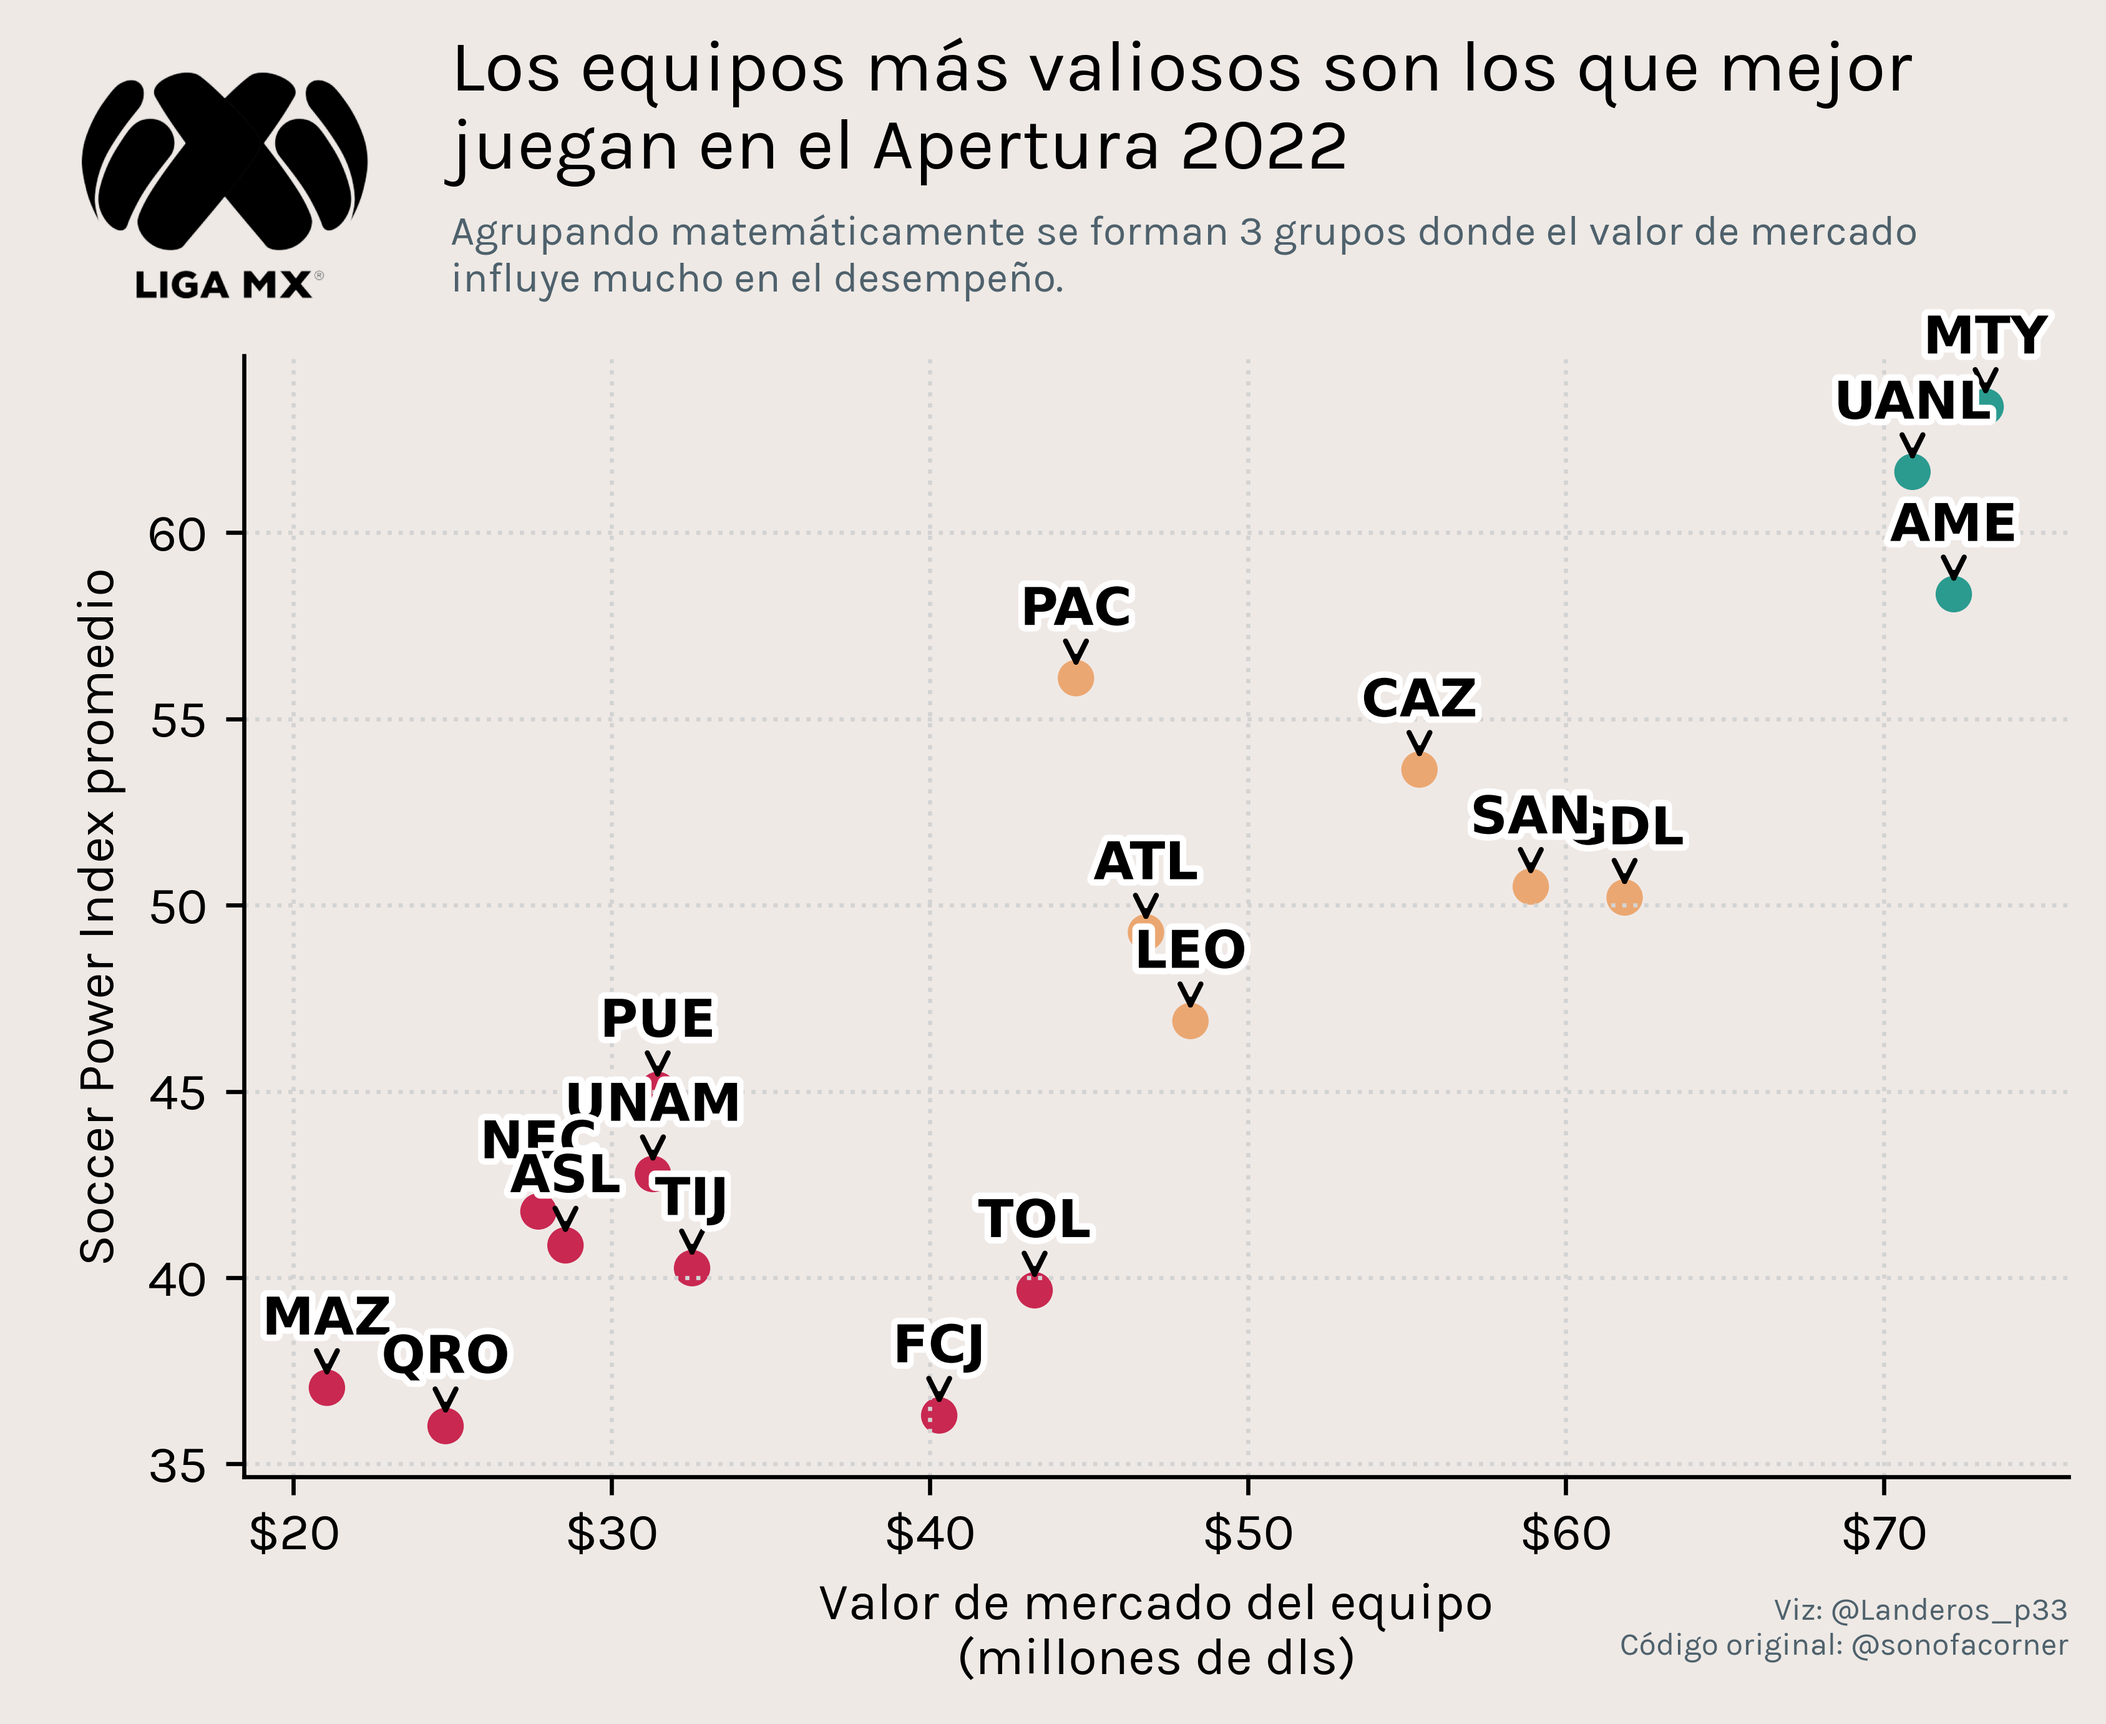
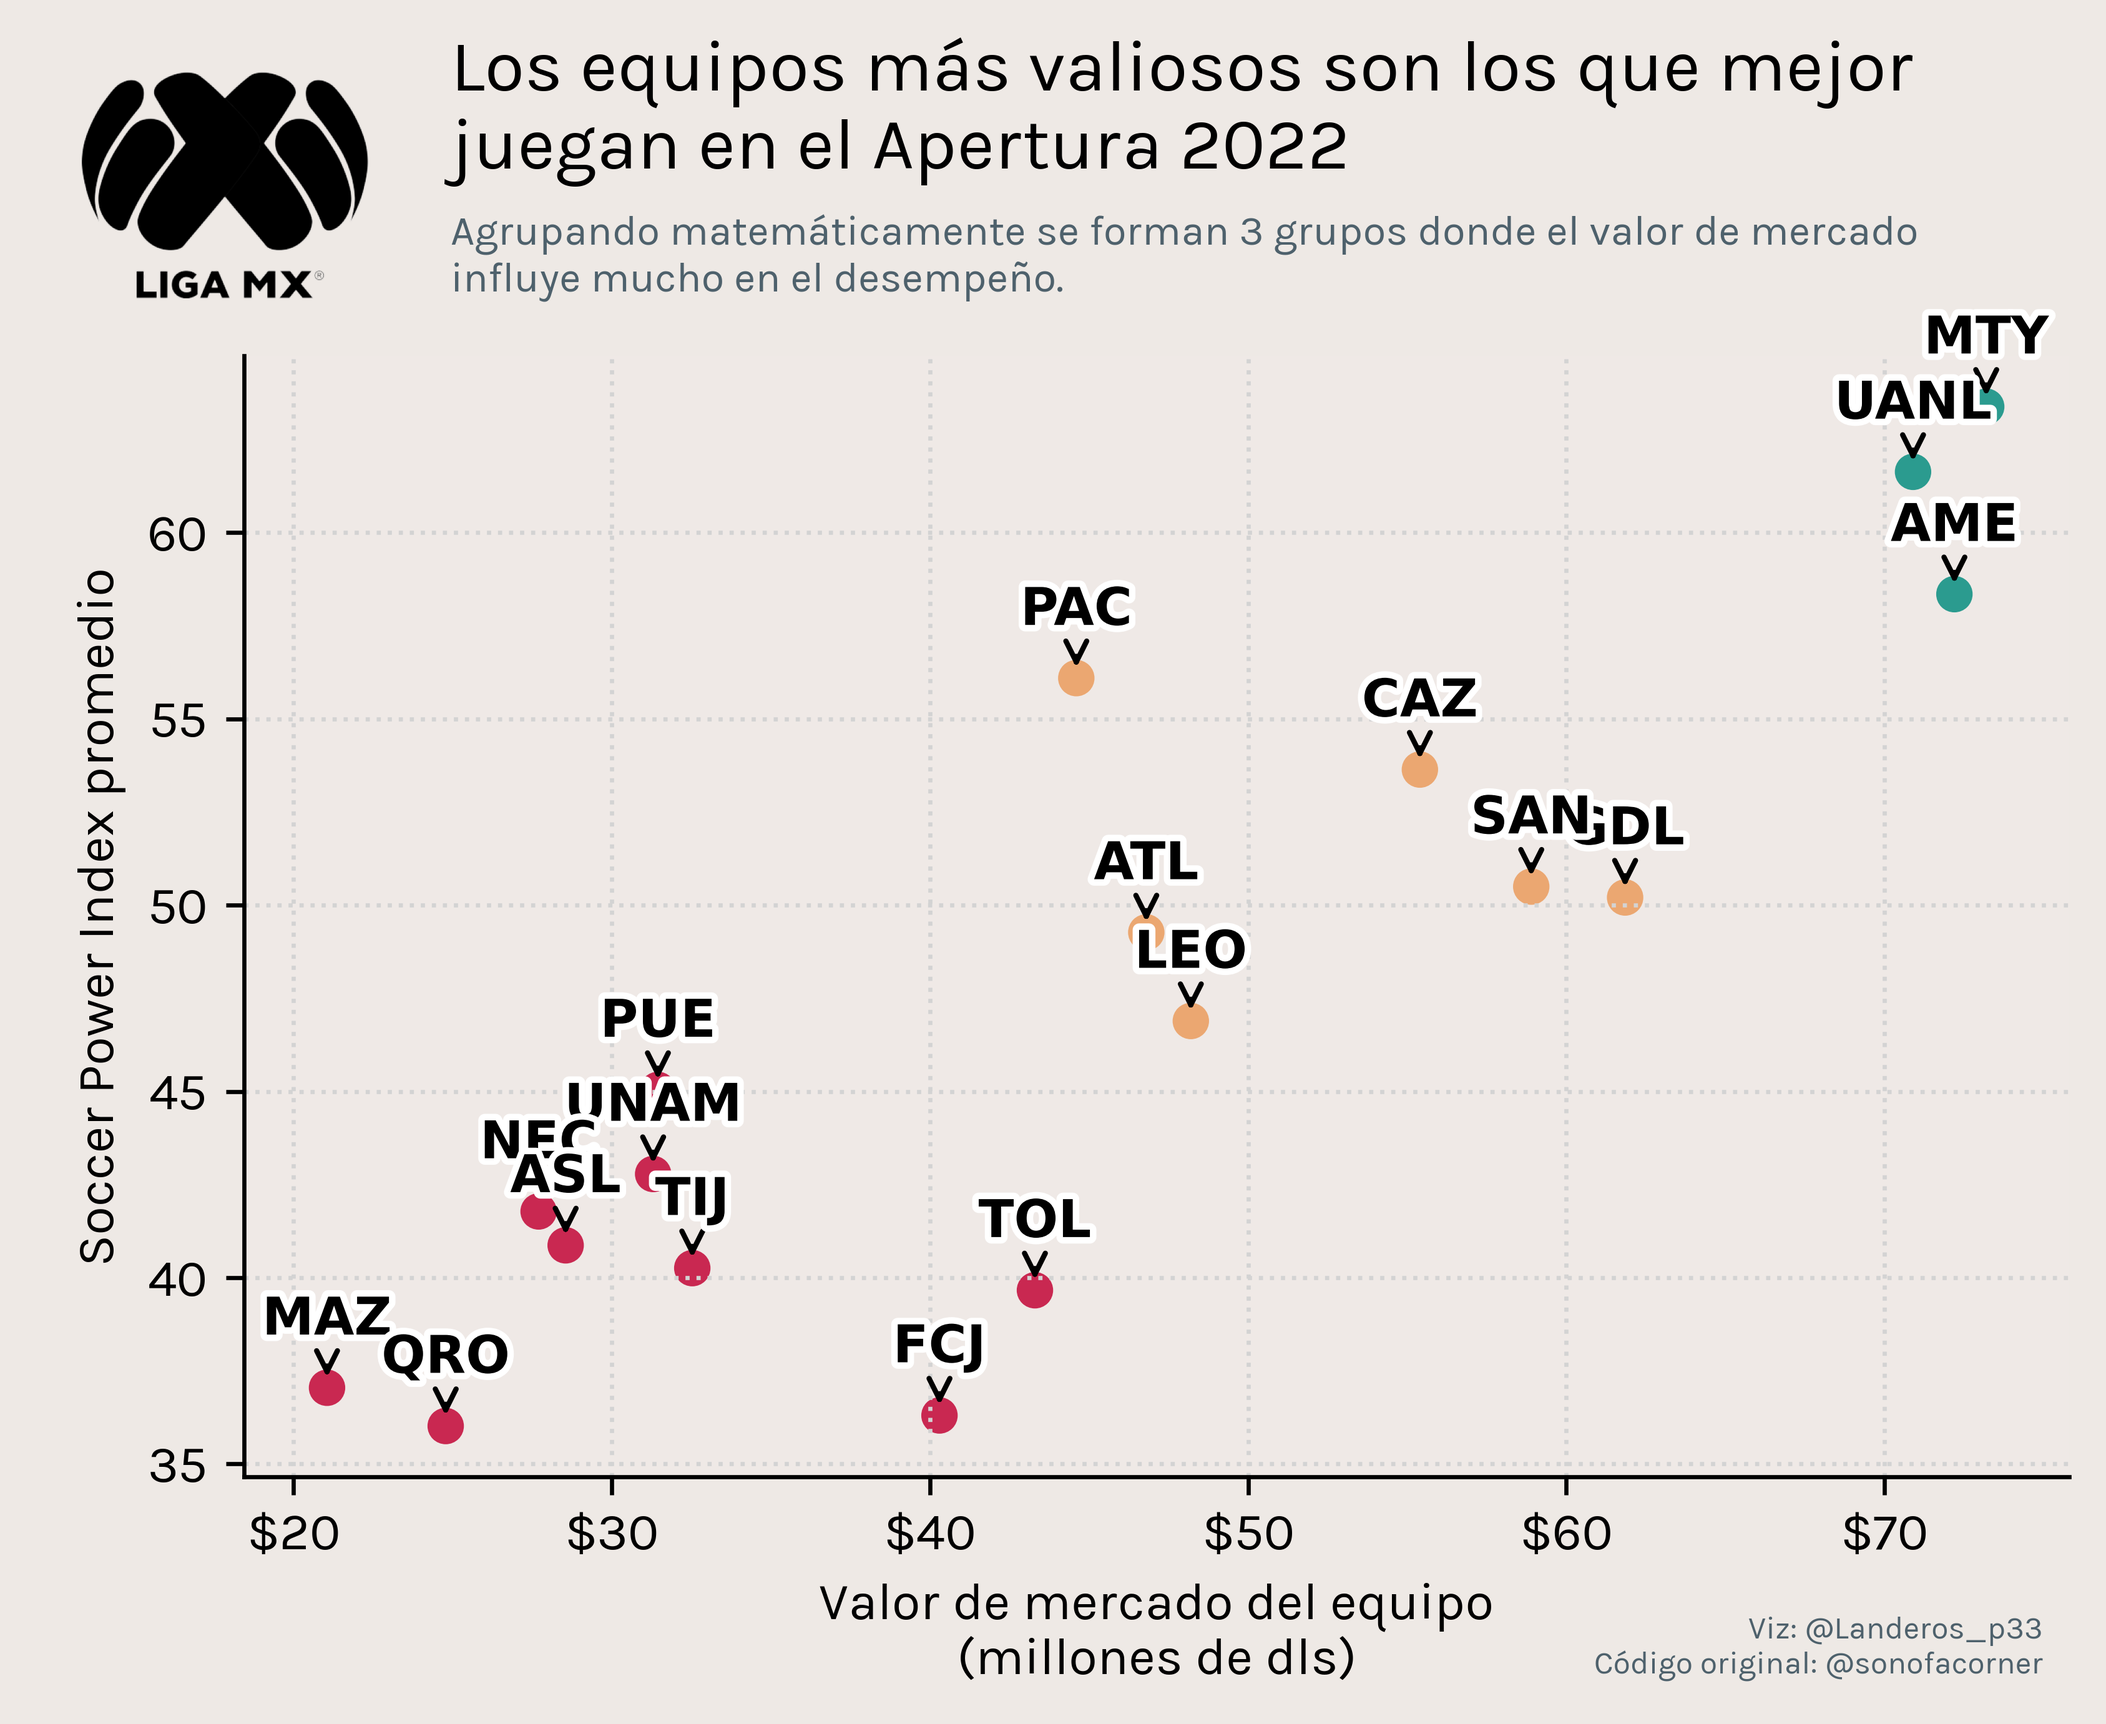
Edited Cluster plot size

Changed region(s): [[0.778, 0.9341, 0.9959, 0.9652]]

diff --git a/Soccer_Sim_V2/src/src.py b/Soccer_Sim_V2/src/src.py
@@ -177,7 +177,7 @@ for x_,y_,abbrev in zip(teams['transfermarkt'],teams['avg_spi'],teams['abrev']):
 ax_dict["bar"].spines["top"].set_visible(False)
 ax_dict["bar"].spines["right"].set_visible(False)
 ax_dict["bar"].set_facecolor("#EFE9E6")
-plt.figtext(0.9, 0.03,'Viz: @Landeros_p33\nCódigo original: @sonofacorner',
+plt.figtext(0.89, 0.02,'Viz: @Landeros_p33\nCódigo original: @sonofacorner',
             fontsize=6,horizontalalignment='right',color = "#4E616C")
 
 # import  matplotlib.font_manager
